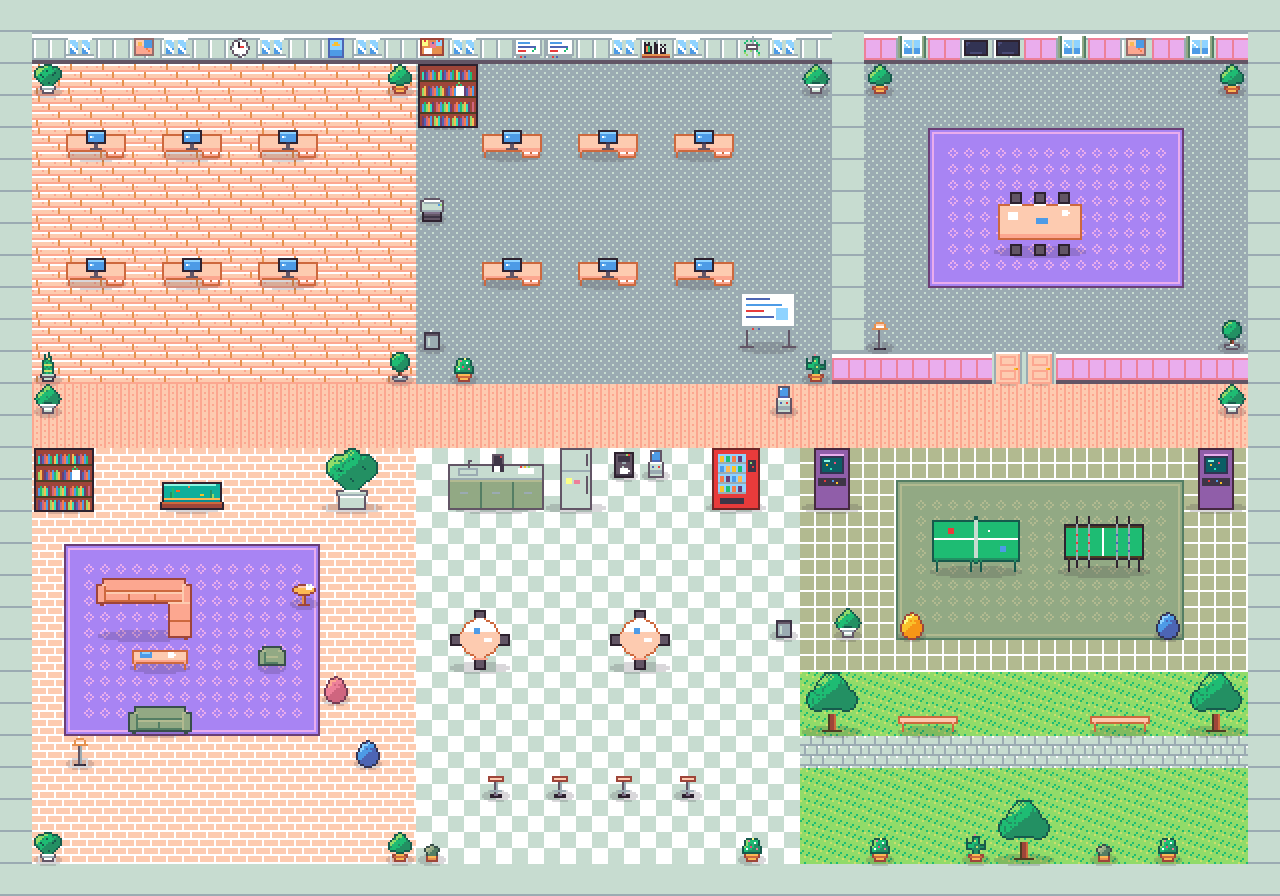
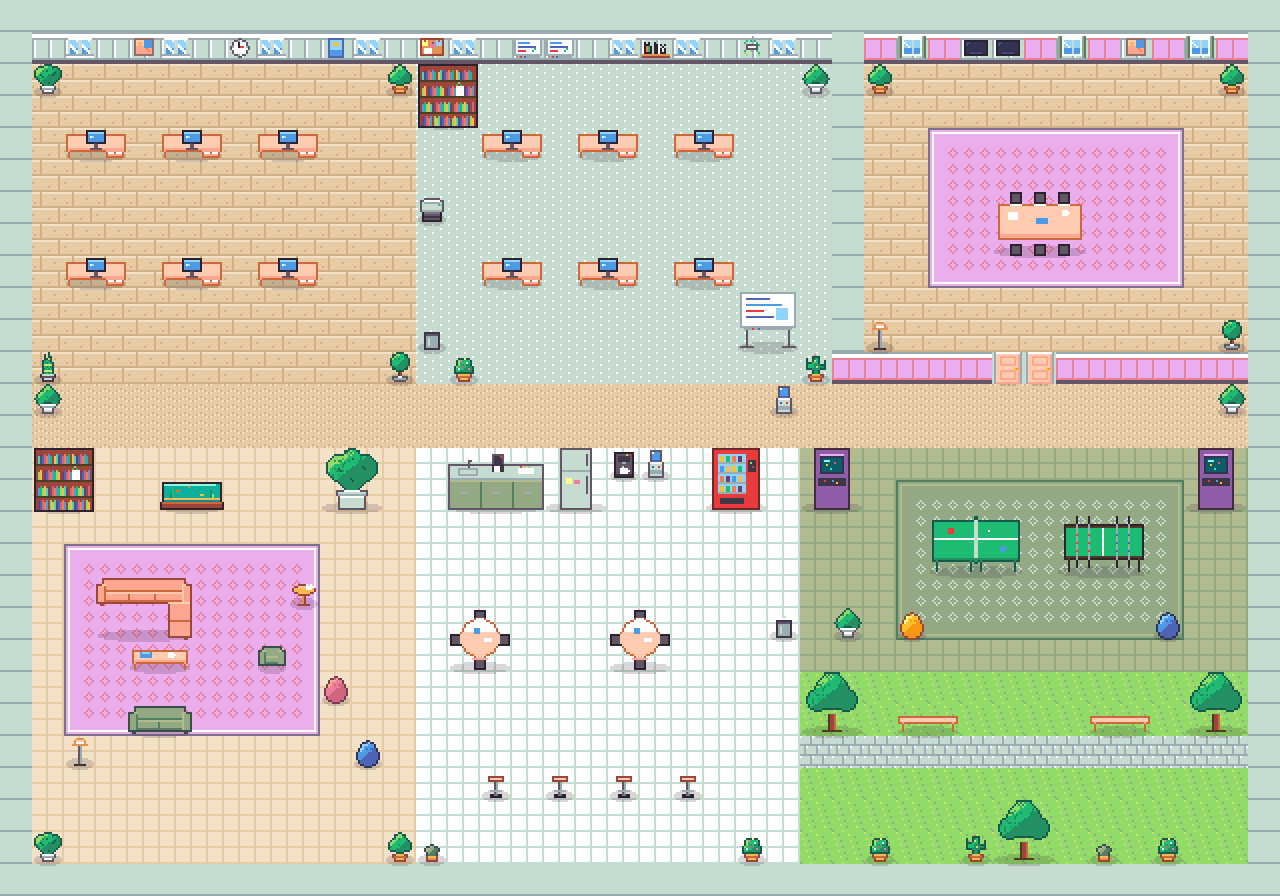
docs: decisões do pingpong, resolução do canvas e estado do visual
- architecture.md: seção de interações com objetos (contrato do pingpong),
  exceção de proximidade, resolução do canvas, partida fora do replay.
- melhorias.md: rodada visual e próximo passo; CLAUDE.md aponta specs e planos.
- README: pingpong em andamento e print do mapa com os pisos novos.

diff --git a/docs/architecture.md b/docs/architecture.md
@@ -622,6 +622,8 @@ Proximidade (na sala `space:`):
 - Fazer isso no cliente é aceitável porque a área aberta é visível para todo o coworking por
   definição. O que precisa de privacidade está em salas separadas.
 - Volume atenuado pela distância (1,0 até 1 tile, caindo linearmente até 0,2 no raio de saída).
+- Exceção aprovada (pingpong, seção "Interações com objetos"): o adversário de uma partida em
+  andamento conta como perto, mesmo acima do raio. A sala continua a `space:`.
 - Balões de vídeo: câmera desligada por padrão, com indicador de "visível para quem está perto".
   Até `MAX_VIDEO_BUBBLES` dos mais próximos, assinando a camada de menor qualidade (simulcast e
   adaptive stream); qualidade alta só quando o usuário expande o balão.
@@ -725,6 +727,11 @@ Decisões de interface (revisão de 2026-11):
   A decoração da mesa usa miniaturas recortadas do tileset por CSS.
 - Zoom da câmera em degraus inteiros (1x, 2x, 3x sobre o `RENDER_SCALE`) para o pixel art não
   borrar; mapa menor que a tela fica centralizado alargando os limites da câmera.
+- Resolução (revisão de 2026-11-22): o canvas tem a resolução física da tela (`devicePixelRatio`)
+  e a escala do pixel art vem do zoom da câmera, `round(RENDER_SCALE * devicePixelRatio)` vezes o
+  degrau (`client/src/game/scale.ts`). Antes o canvas era desenhado em meia resolução e esticado
+  pelo CSS, e o texto de 7 px no zoom 1x ficava ilegível. Texto usa filtro linear (o resto segue
+  nearest).
 - Quem fala (`ActiveSpeakersChanged` do LiveKit) ganha um anel sob o avatar e destaque na lista.
 - Status na lista também por forma (círculo, quadrado, anel) e texto, não só cor.
 - Overlay de netcode (F3 ou botão "Rede"), disponível também em produção: RTT, jitter e
@@ -852,8 +859,29 @@ Decisões da fase 7 (editor no app, `packages/client/src/editor`):
   chega às mesmas posições: um teste de integração confere isso num cenário com tranca e batida.
 - `GET /spaces/:spaceId/replay` (só admin) devolve a gravação; o botão "Replay" do cliente a
   reproduz num canvas com linha do tempo e velocidade.
-- Fica de fora o que não entra na simulação (chat, mídia, chamadas, mesas): o replay é do
-  movimento.
+- Fica de fora o que não entra na simulação (chat, mídia, chamadas, mesas, partidas de
+  pingpong): o replay é do movimento.
+
+## Interações com objetos: pingpong (aprovado em 2026-11-22, implementação pendente)
+
+Desenho completo em `docs/superpowers/specs/2026-11-22-pingpong-design.md`. Decisões de contrato:
+
+- Mapa compilado: `compileMap` devolve `tables: CompiledTable[]` para os móveis cujo `item_id` está
+  em `INTERACTIVE_ITEMS` (hoje só `ping-pong` → `pong`), com chave `<item>@<x>,<y>` e os tiles de
+  cada lado. O mapa salvo não muda. Troca de mapa ao vivo encerra as partidas.
+- Simulação: módulo puro `shared/src/pong.ts` (estado + intenções das raquetes + tempo → novo
+  estado + eventos), relógio injetado, e um bot puro para o modo solo. O servidor avança cada
+  partida a 30 Hz com o `Scheduler` injetado, só enquanto ela existe.
+- Protocolo: cliente manda `game.join`, `game.bot`, `game.rematch`, `game.leave` e `game.input
+  { seq, dir }` (só na mudança). Servidor manda `game.state` (30 Hz, só aos jogadores),
+  `game.events` e `table.state` (a todos, para a plaquinha com o placar). O `welcome` ganha
+  `tables` e `game` (a mesa do próprio jogador, para reabrir a janela na reconexão);
+  `Player.activity` ganha `'game'` (chamada continua com prioridade).
+- Regras de convivência: com a janela aberta o servidor ignora `move`; queda de conexão pausa a
+  partida durante `RECONNECT_GRACE_MS`; quem está em chamada não entra na mesa e quem joga
+  responde `busy` a convite de chamada.
+- Mídia: nenhuma sala nova; os adversários se ouvem pela exceção de proximidade (seção 10).
+- Fica fora do replay determinístico.
 
 ## Observabilidade
 

diff --git a/docs/melhorias.md b/docs/melhorias.md
@@ -84,6 +84,21 @@ Decisões aprovadas nesta rodada: `@fastify/rate-limit` como dependência; erro 
 - [x] `pnpm e2e` passando no CI (localmente, no macOS com Docker Desktop, o ICE do segundo
   participante falha, inclusive no código anterior)
 
+## 7. Visual (redesenho de 2026-11, PRs #16, #17 e #18)
+
+- [x] Arte nova (Resurrect 64 + 3 tons de carvalho), mesa de 2 tiles, tema claro com Inter
+- [x] Divisória atrás da mesa sem parede; cargo em pílula legível
+- [x] Pisos harmonizados (pouco contraste, peças grandes, salas vizinhas sem piso repetido)
+- [x] Texto legível no zoom mínimo (canvas na resolução da tela)
+- [x] Frames de piso, parede e tapete por `item_id` (`frameOf`); prévia da mesa pelo mesmo
+  `deskSprites` do jogo
+
+## 8. Próximo: interações com objetos
+
+- [ ] Minigame de pingpong na mesa (solo contra bot ou 1x1), servidor com autoridade a 30 Hz.
+  Desenho aprovado em `docs/superpowers/specs/2026-11-22-pingpong-design.md`.
+- [ ] Pebolim pelo mesmo mecanismo (depois do pingpong).
+
 ## Pendências conhecidas
 
 - TURN para redes que só liberam a 443: as opções estão em `docs/deploy.md`, mas nenhuma foi

diff --git a/README.md b/README.md
@@ -30,6 +30,9 @@ proximidade e autorização de mídia feitas no servidor.
   servidor e simulador de latência para ver a predição e a reconciliação funcionando.
 - Replay da simulação para admins: a gravação das entradas do servidor reproduzida no navegador
   com o mesmo `step` puro.
+- Em andamento: minigame de pingpong na mesa de jogos, sozinho contra um bot ou contra outra
+  pessoa, com a partida simulada pelo servidor
+  ([desenho](docs/superpowers/specs/2026-11-22-pingpong-design.md)).
 
 ## Telas
 

diff --git a/CLAUDE.md b/CLAUDE.md
@@ -16,6 +16,8 @@ técnica nele a amplitude de features.
 - `docs/prompts/`: um prompt por fase de implementação.
 - `docs/deploy.md`: deploy na VPS, backup e restauração.
 - `docs/melhorias.md`: lista de trabalho da revisão de 2026-11 (o que foi feito e o que ficou).
+- `docs/superpowers/specs/` e `docs/superpowers/plans/`: desenhos aprovados e planos de
+  implementação das features novas (redesenho visual, pingpong).
 
 ## Stack
 

diff --git a/docs/superpowers/specs/2026-11-22-pingpong-design.md b/docs/superpowers/specs/2026-11-22-pingpong-design.md
@@ -1,6 +1,7 @@
 # Interação com objetos: pingpong
 
-Data: 2026-11-22. Status: proposta, aguardando aprovação do dono. Revisada após a leitura de um revisor.
+Data: 2026-11-22. Status: aprovado pelo dono em 2026-11-22 (revisado após a leitura de um revisor). Decisões de
+contrato registradas em `docs/architecture.md`, seção "Interações com objetos".
 
 ## Intenção
 
